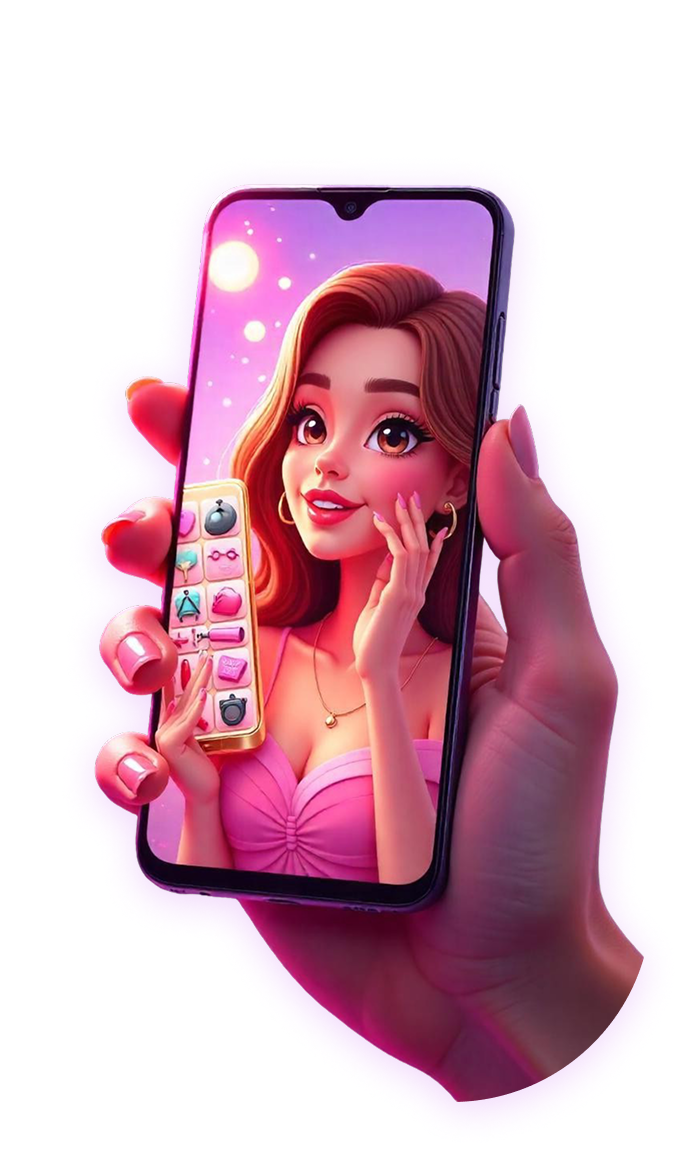
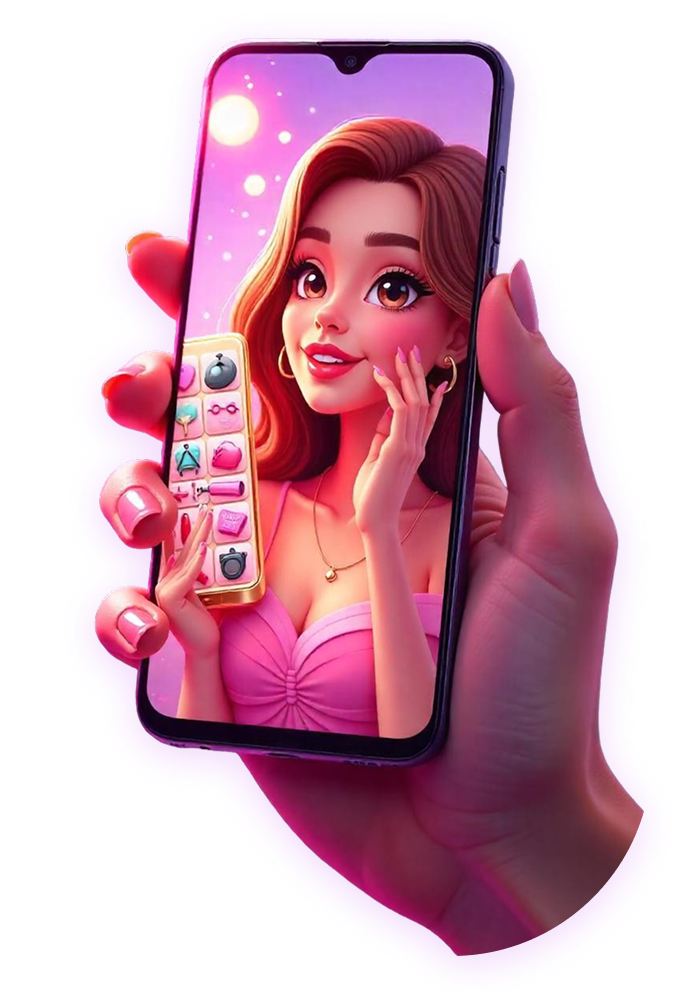
fix image

diff --git a/src/scss/features.scss b/src/scss/features.scss
@@ -101,7 +101,7 @@
     grid-template-rows: repeat(8, 1fr);
     align-items: center;
     // column-gap: 8px;
-    row-gap: 20px;
+    // row-gap: 10px;
 
     @include media(desktop) {
       width: 950px;
@@ -114,7 +114,7 @@
     .feature-item {
       max-width: 132px;
       padding-top: 20px;
-      // margin: 0 auto;
+      margin: 0 auto;
 
       @include media(desktop) {
         max-width: 270px;
@@ -130,16 +130,20 @@
 
     .feature-item-img {
       grid-area: 3/2/7/3;
+      width: 165px;
+      height: 252px;
+      margin: 25px 0;
+
       @include media(desktop) {
+        width: 305px;
+        height: 462px;
         grid-area: 1/2/4/3;
       }
-      .feature-img {
-        width: 165px;
-        height: 291px;
 
+      .feature-img {
+        height: 100%;
+        object-fit: cover;
         @include media(desktop) {
-          width: 305px;
-          height: 535px;
           margin: 0 auto;
         }
       }
